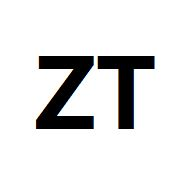
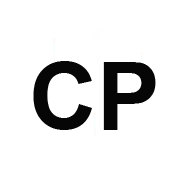
soso

Changed region(s): [[0.1562, 0.2812, 0.8125, 0.6875]]

diff --git a/index.html b/index.html
@@ -6,9 +6,9 @@
   <head>
   <meta charset="utf-8">
   <meta http-equiv="X-UA-Compatible" content="IE=edge">
-  <title>ＺＴ云 - 网站首页</title>
+  <title>重庆草棚科技有限公司 - 网站首页</title>
   <meta name="viewport" content="width=device-width, initial-scale=1">
-  <meta name="keywords" content="ＺＴ云流量" />
+  <meta name="keywords" content="车联网 调度 EV 长远  解决方案" />
 
   <!-- Facebook and Twitter integration -->
   <meta property="og:title" content=""/>
@@ -61,17 +61,15 @@
               <div class="navbar-header">
                 <!-- Mobile Toggle Menu Button -->
           <a href="#" class="js-fh5co-nav-toggle fh5co-nav-toggle" data-toggle="collapse" data-target="#navbar" aria-expanded="false" aria-controls="navbar"><i></i></a>
-                  <a class="navbar-brand" href="./"><img src="picture/zesql4.png" />ＺＴ云流量</a>
+                  <a class="navbar-brand" href="./"><img src="picture/zesql4.png" />草棚科技</a>
               </div>
               <div id="navbar" class="navbar-collapse collapse">
                 <ul class="nav navbar-nav navbar-right">
                   <li class="active"><a href="#" data-nav-section="home"><span>网站首页</span></a></li>
-                  <li><a href="#" data-nav-section="services"><span>产品介绍</span></a></li>
-                  <li><a href="#" data-nav-section="press"><span>软件安装</span></a></li>
-                  <li><a href="#" data-nav-section="testimonials"><span>常见问题</span></a></li>
-                  <li><a href="#" data-nav-section="pricing"><span>云免服务器</span></a></li>
-                  <li><a target="_blank" href="http://www.zt3111.com:8888/" class="btn btn-primary btn-sm">登录</a></li>
-                  <li><a target="_blank" href="http://www.zt3111.com:8888/user/reg.php" class="btn btn-primary btn-sm">注册</a></li>
+                  <li><a href="#" data-nav-section="services"><span>解决方案</span></a></li>
+                  <li><a href="#" data-nav-section="press"><span>硬件产品</span></a></li>
+                  <li><a href="#" data-nav-section="testimonials"><span>软件产品</span></a></li>
+                  <li><a href="#" data-nav-section="pricing"><span>关于我们</span></a></li>
                 </ul>
               </div>
           </nav>
@@ -91,7 +89,7 @@
 		    						<h1 class="fh5co-lead to-animate">超实惠云免服务器4G冲浪新时代</h1>
 									<h2 class="fh5co-sub-lead to-animate">抵制高价流量，让你使用专用的云免服务器，安全快捷！ </h2>
 									<p class="to-animate-2">
-										<a href="#" class="btn btn-primary btn-lg" data-nav-section="pricing">现在马上联系，获得技术支持</a>
+										<a href="#" class="btn btn-primary btn-lg" data-nav-section="pricing">详细了解</a>
 									</p>
 								</div>
 							</div>
@@ -133,7 +131,7 @@
 		</div>
 	</div>
     
-    <div class="copyrights">Collect from <a href="#" >ZT云流量</a></div>
+    <div class="copyrights">Collect from <a href="#" >重庆草棚科技有限公司</a></div>
 	
 	<div id="fh5co-our-services" data-section="services">
 		<div class="container">
@@ -376,7 +374,7 @@
         <div class="container">
             <div class="row row-bottom-padded-sm">
                 <div class="col-md-12">
-                    <p class="copyright text-center">&copy; 2016 <a href="./">ZT云流量</a>. All Rights Reserved.</p>
+                    <p class="copyright text-center">&copy; 2019 <a href="./">重庆草棚科技有限公司</a>. All Rights Reserved.</p>
                 </div>
             </div>
             <div class="row hide">
